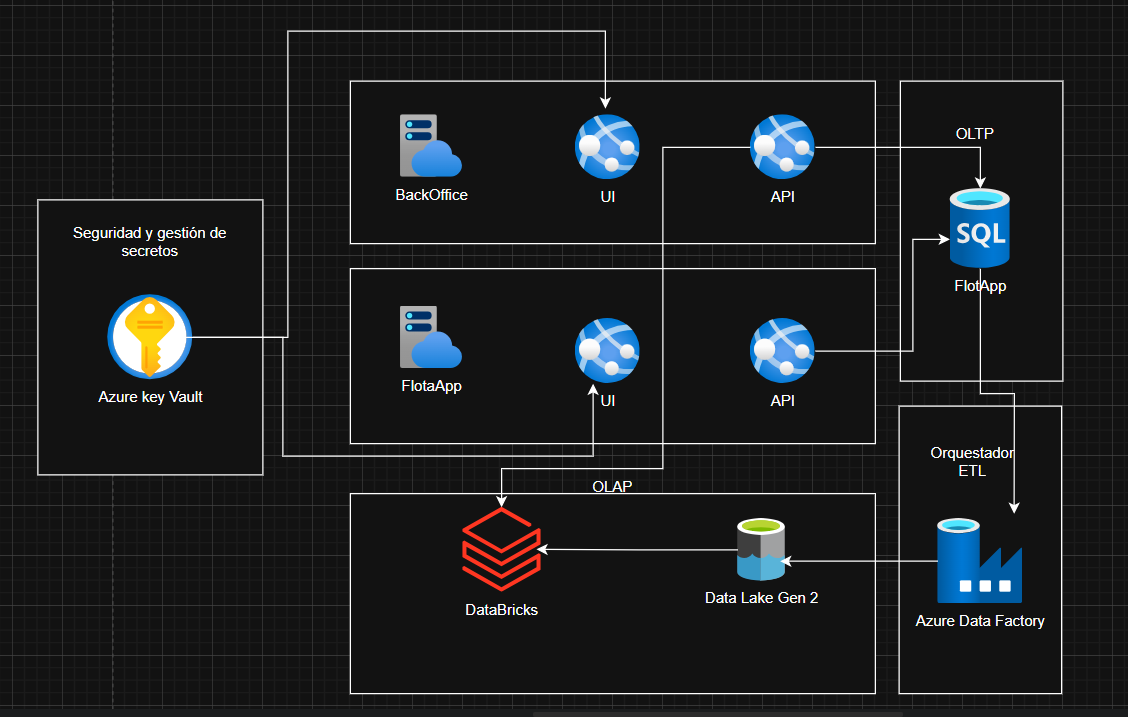
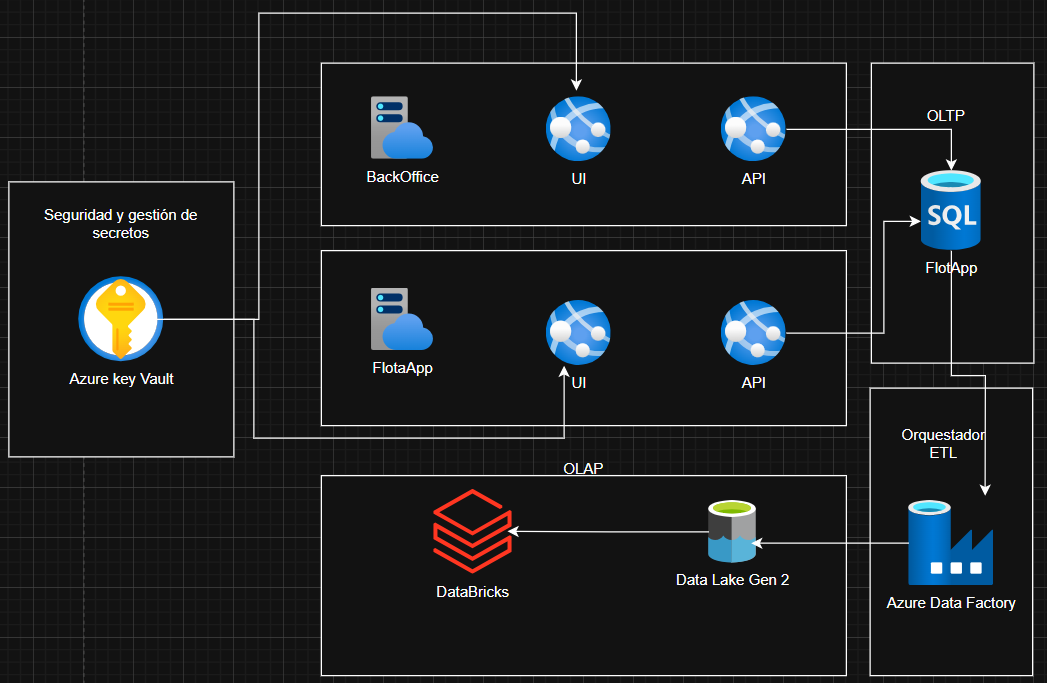
Se agrego nueva imagen para infraestructura de proyecto de azure y se cambio el repositorio

diff --git a/src/content/projects/proyectos.ts b/src/content/projects/proyectos.ts
@@ -13,7 +13,7 @@ export const proyectos : Proyectos [] = [
         ],
         imagen : '/images/projects/cnnJava.jpg',
         codeUrl : 'https://github.com/CristhianGT64/CNN-reconocimiento-Facial-java-sin-librerias',
-        demoUrl : 'demo'
+        demoUrl : '#'
     },
     {
         id : 'dwhBienesRaices',
@@ -37,7 +37,7 @@ export const proyectos : Proyectos [] = [
         ],
         imagen : '/images/projects/dwh.png',
         codeUrl : 'codigo',
-        demoUrl : 'demo'
+        demoUrl : '#'
     },
     {
         id : 'webappUber',
@@ -58,7 +58,7 @@ export const proyectos : Proyectos [] = [
         ],
         imagen : '/images/projects/uber.png',
         codeUrl : 'https://github.com/CristhianGT64/UberFrontEnd',
-        demoUrl : 'demo'
+        demoUrl : '#'
     },
         {
         id : 'webappDelivery',
@@ -81,7 +81,7 @@ export const proyectos : Proyectos [] = [
         ],
         imagen : '/images/projects/delivery.png',
         codeUrl : 'https://github.com/CristhianGT64/Proyecto-Front-End-',
-        demoUrl : 'demo'
+        demoUrl : '#'
     },
     {
         id : 'inventarioPython',
@@ -125,7 +125,7 @@ export const proyectos : Proyectos [] = [
             
         ],
         imagen : '/images/projects/imageTerraformAzure.png',
-        codeUrl : 'https://github.com/MiltonAlvarado/arquitectura_terraform_flota_vehiculos.git',
-        demoUrl : 'null'
+        codeUrl : 'https://github.com/CristhianGT64/ArquitecturaAzureTerraform',
+        demoUrl : '#'
     },
 ]
